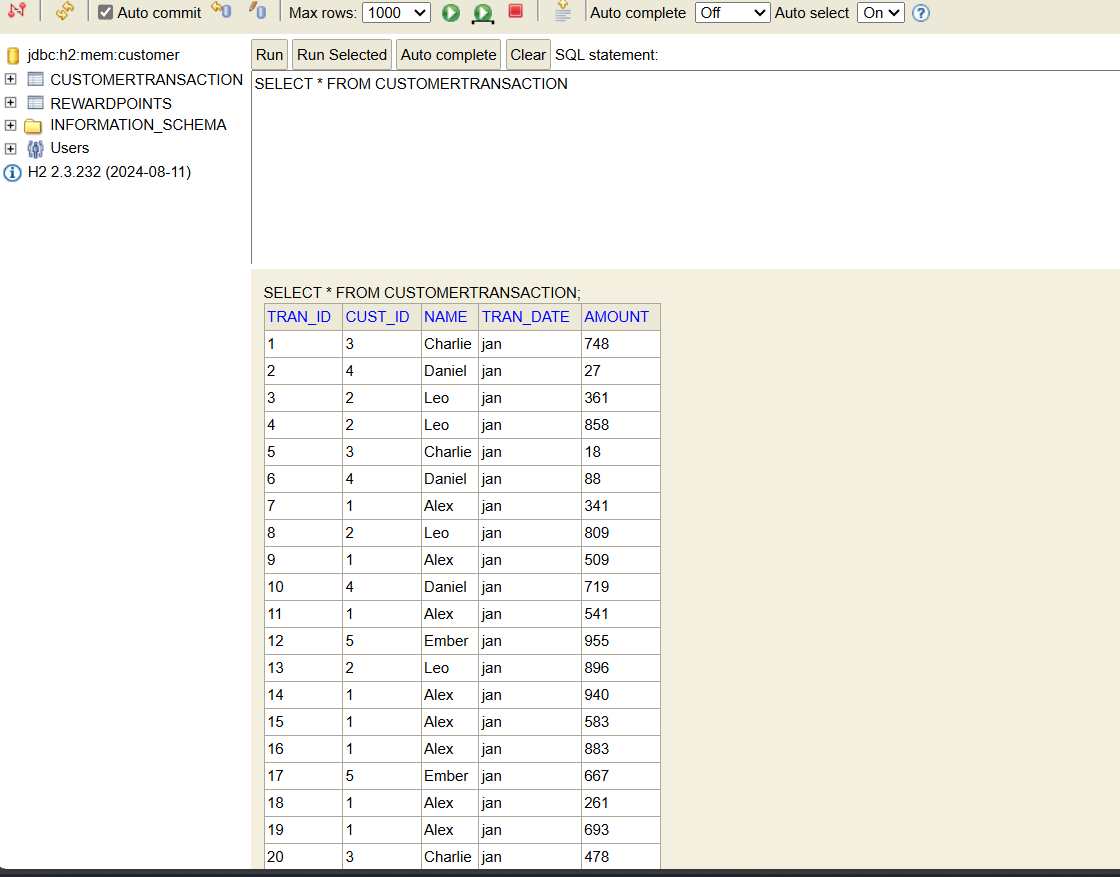
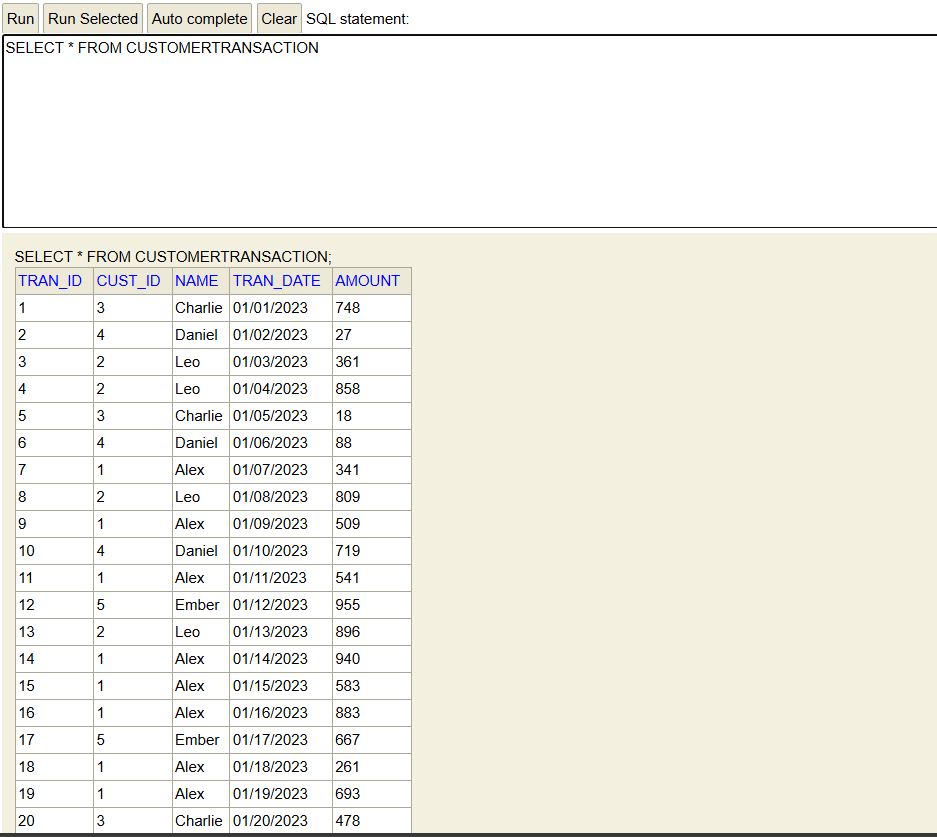
Postman and db screen shots added

Changed region(s): [[0.0, 0.2485, 1.0, 1.0], [0.0, 0.0, 1.0, 0.2174]]

diff --git a/src/main/java/CustomerRewardsApp/customerRewardsService/RewardsServiceImpl.java b/src/main/java/CustomerRewardsApp/customerRewardsService/RewardsServiceImpl.java
@@ -1,7 +1,6 @@
 package CustomerRewardsApp.customerRewardsService;
 
 import CustomerRewardsApp.customerRewardsException.CustomerIdNotFoundException;
-import CustomerRewardsApp.customerRewardsException.TransactionNotFoundException;
 import CustomerRewardsApp.customerRewardsRepository.RewardsRepository;
 import CustomerRewardsApp.customerRewardsRepository.TransactionRepository;
 import CustomerRewardsApp.models.Reward;
@@ -10,8 +9,9 @@ import CustomerRewardsApp.models.Transaction;
 import org.springframework.beans.factory.annotation.Autowired;
 import org.springframework.stereotype.Service;
 
+import java.time.LocalDate;
+import java.time.format.DateTimeFormatter;
 import java.util.*;
-import java.util.stream.Collectors;
 
 @Service
 public class RewardsServiceImpl implements RewardsService {
@@ -27,20 +27,21 @@ public class RewardsServiceImpl implements RewardsService {
         //Mapping and Grouping Rewards by CustId and month of transaction
         for (Transaction t : transactions) {
             HashMap<String, Reward> monthlyMap;
+            String month = LocalDate.parse(t.getTranDate(), DateTimeFormatter.ofPattern("MM/dd/yyyy")).format(DateTimeFormatter.ofPattern("MMMM", Locale.ENGLISH));
             Reward r;
             if (!rewardMap.containsKey(t.getCustId())) {
                 monthlyMap = new HashMap<>();
-                monthlyMap.put(t.getTranDate(), new Reward((t.getCustId() + ":" + t.getTranDate()), t.getCustId(), t.getName(), t.getTranDate(), computeRewardPoint(t.getAmount())));
+                monthlyMap.put(month, new Reward((t.getCustId() + ":" + month), t.getCustId(), t.getName(), month, computeRewardPoint(t.getAmount())));
                 rewardMap.put(t.getCustId(), monthlyMap);
             } else {
                 monthlyMap = rewardMap.get(t.getCustId());
-                if (monthlyMap.containsKey(t.getTranDate())) {
-                    r = monthlyMap.get(t.getTranDate());
+                if (monthlyMap.containsKey(month)) {
+                    r = monthlyMap.get(month);
                     r.setPoints(r.getPoints() + computeRewardPoint(t.getAmount()));
                 } else {
-                    r = new Reward((t.getCustId() + ":" + t.getTranDate()), t.getCustId(), t.getName(), t.getTranDate(), computeRewardPoint(t.getAmount()));
+                    r = new Reward((t.getCustId() + ":" + month), t.getCustId(), t.getName(), month, computeRewardPoint(t.getAmount()));
                 }
-                monthlyMap.put(t.getTranDate(), r);
+                monthlyMap.put(month, r);
             }
             rewardMap.put(t.getCustId(), monthlyMap);
         }
@@ -64,6 +65,7 @@ public class RewardsServiceImpl implements RewardsService {
     @Override
     public RewardDTO calculateRewardPoints(String custId) {
         List<Reward> rewardList = rewardsRepository.findByCustId(custId);
+        if(rewardList.isEmpty()) throw new CustomerIdNotFoundException("CustId not present", "CustId "+custId+" not present in DB");
         int totalReward = rewardList.stream().mapToInt(Reward::getPoints).sum();
         return new RewardDTO(rewardList, totalReward);
     }
